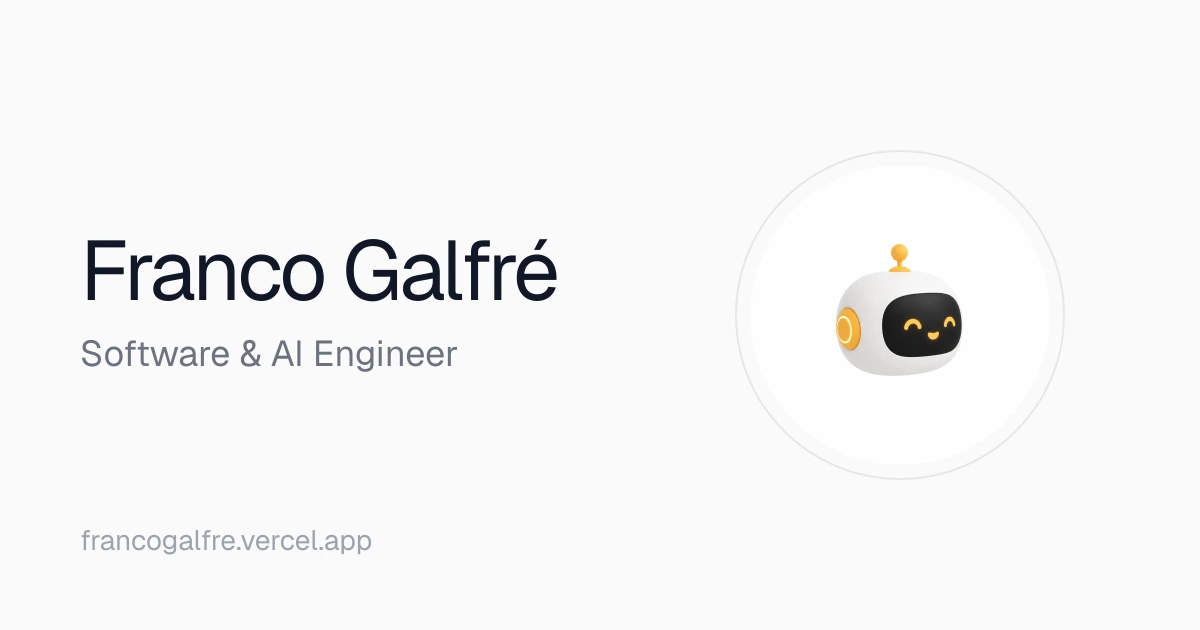
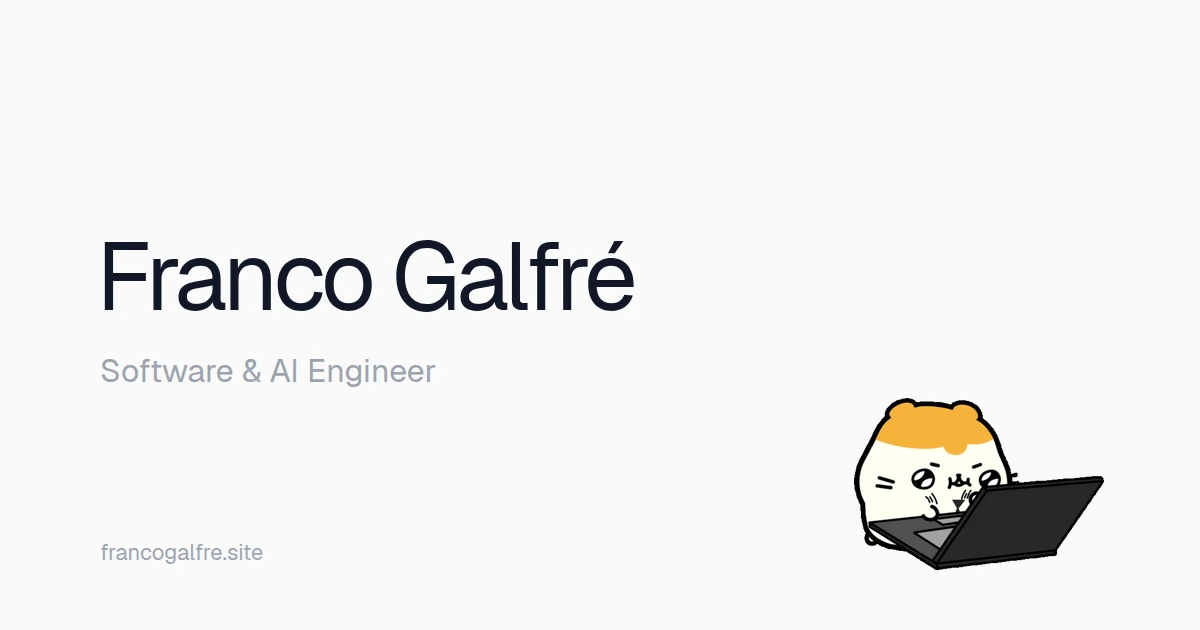
feat(seo): use francogalfre.site and a minimal OG image
Set the site URL and llms.txt links to the real domain. New OG image: lighter name, smaller hamster, no chat agent.

diff --git a/src/data/seo-content.ts b/src/data/seo-content.ts
@@ -5,7 +5,7 @@ export interface PageSEO {
   image?: string;
 }
 
-export const SITE_URL = "https://francogalfre.vercel.app";
+export const SITE_URL = "https://francogalfre.site";
 export const SITE_NAME = "Franco Galfré";
 
 export const blogSeoData: PageSEO = {
